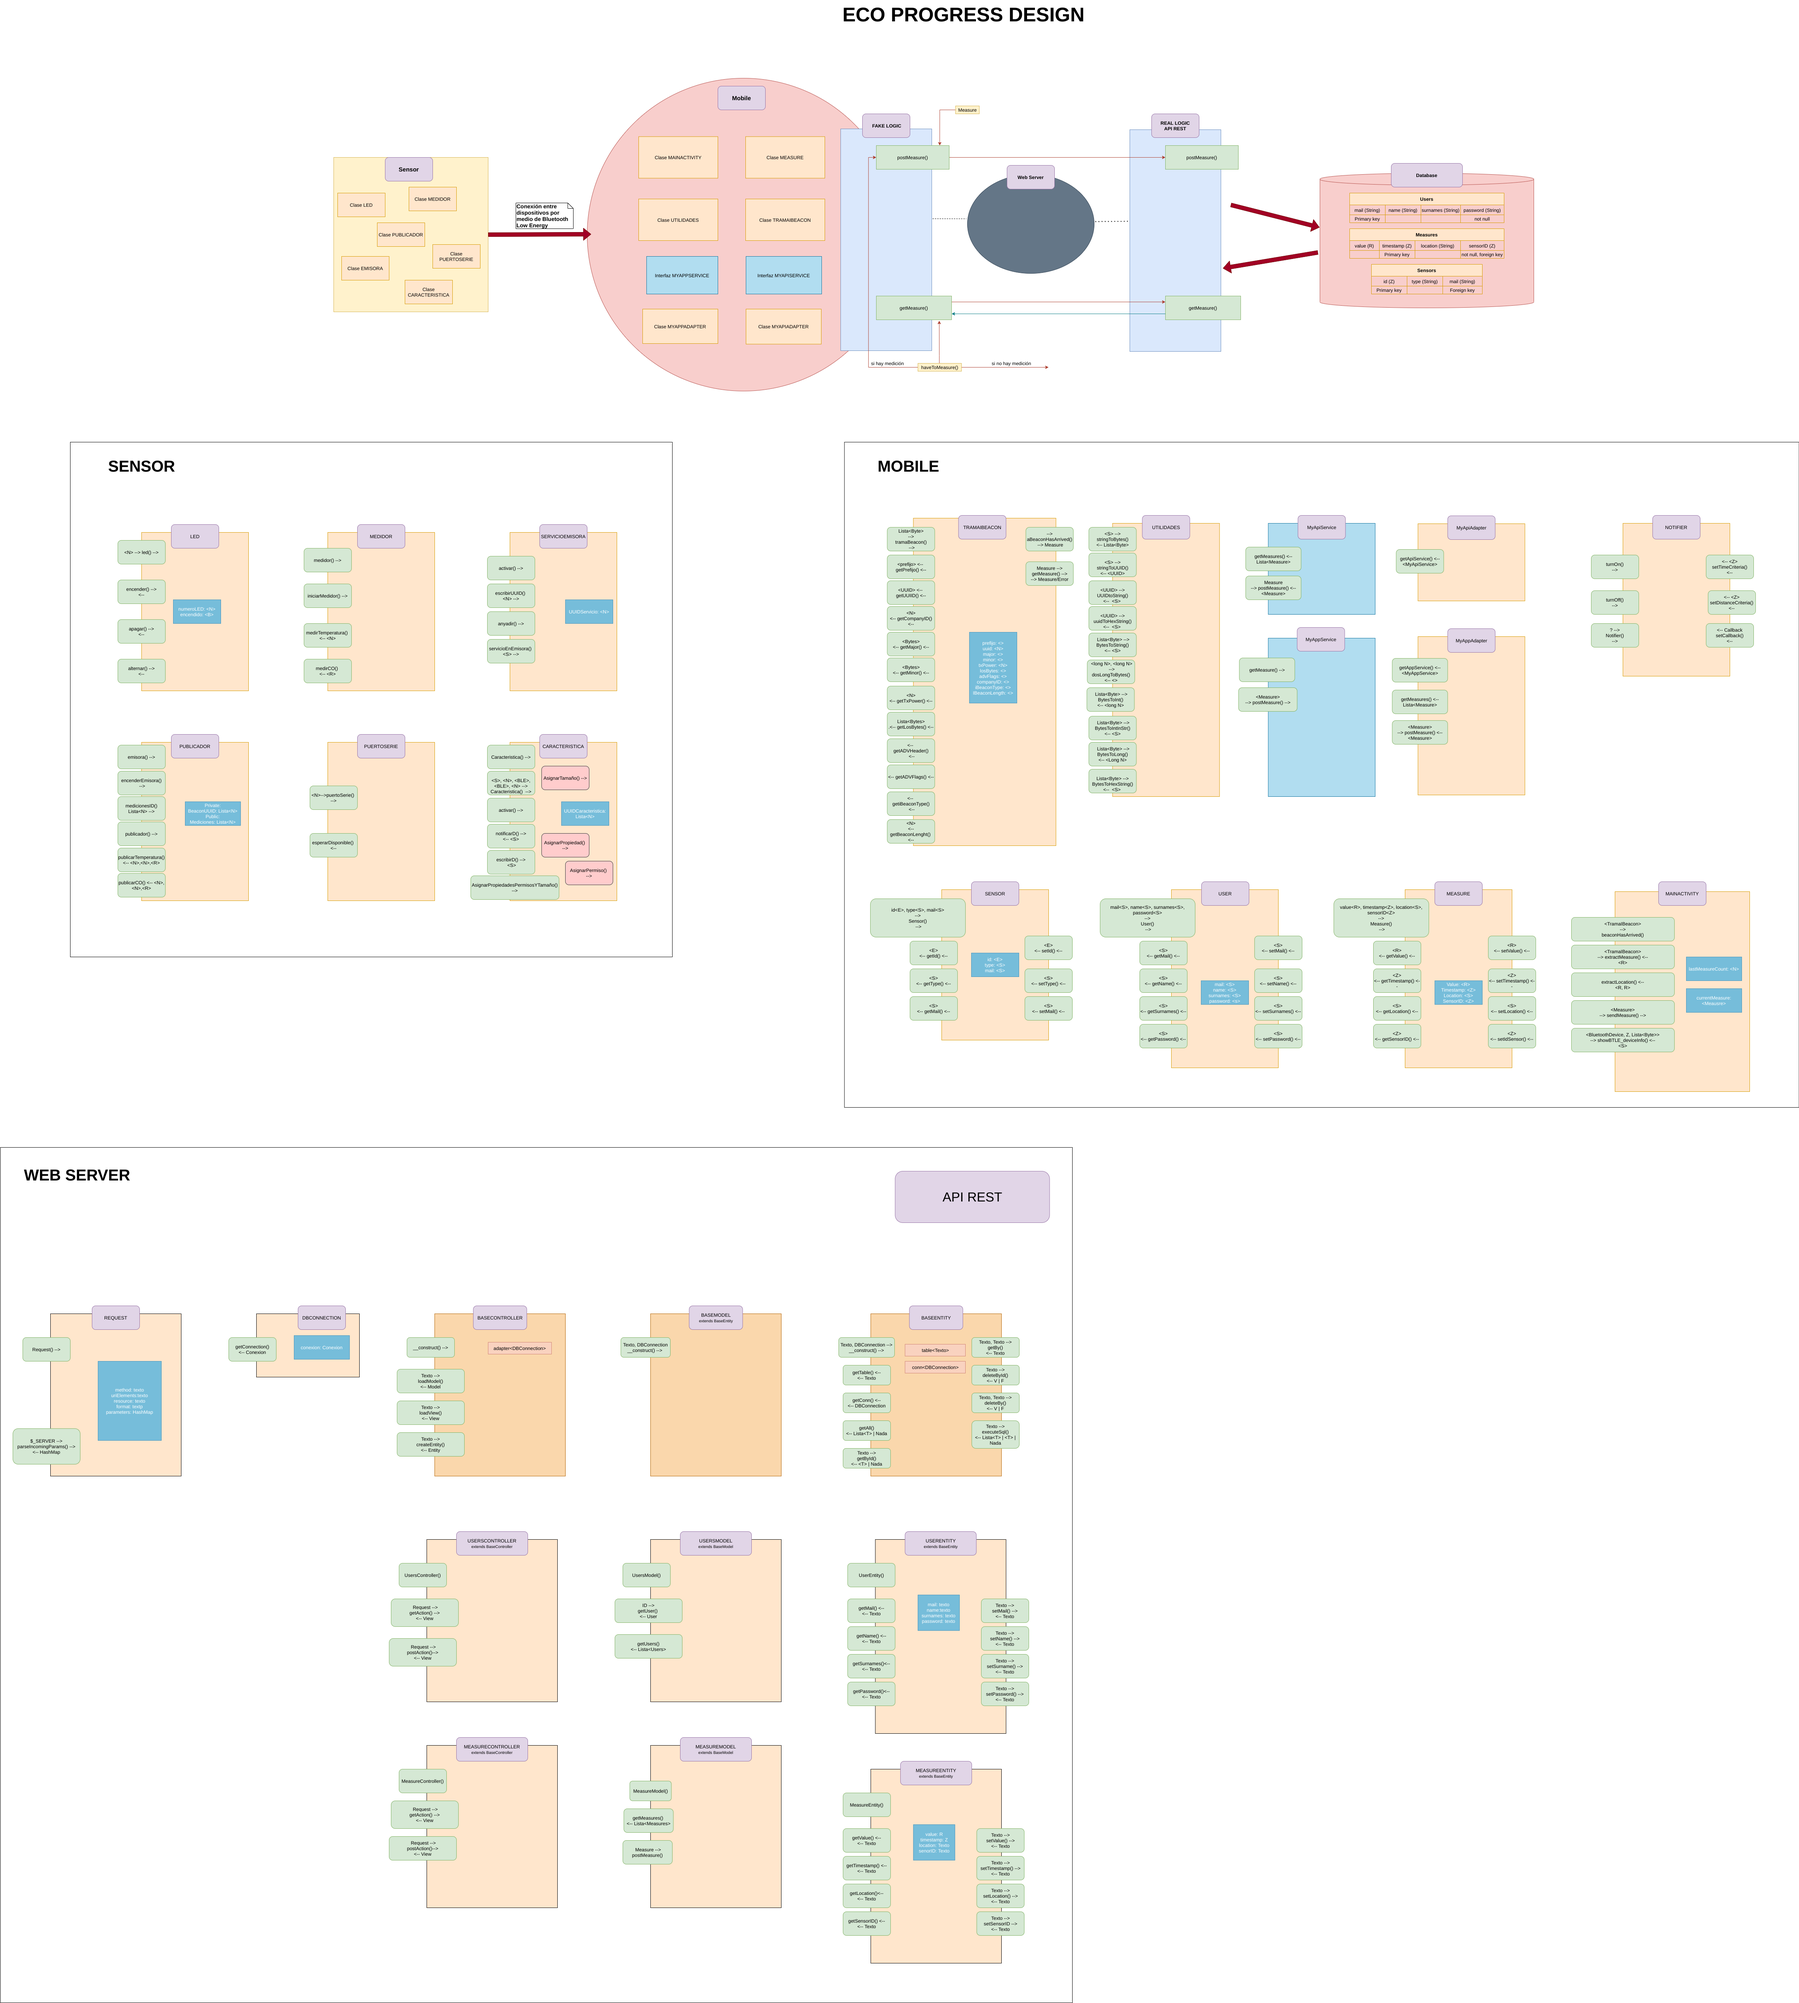
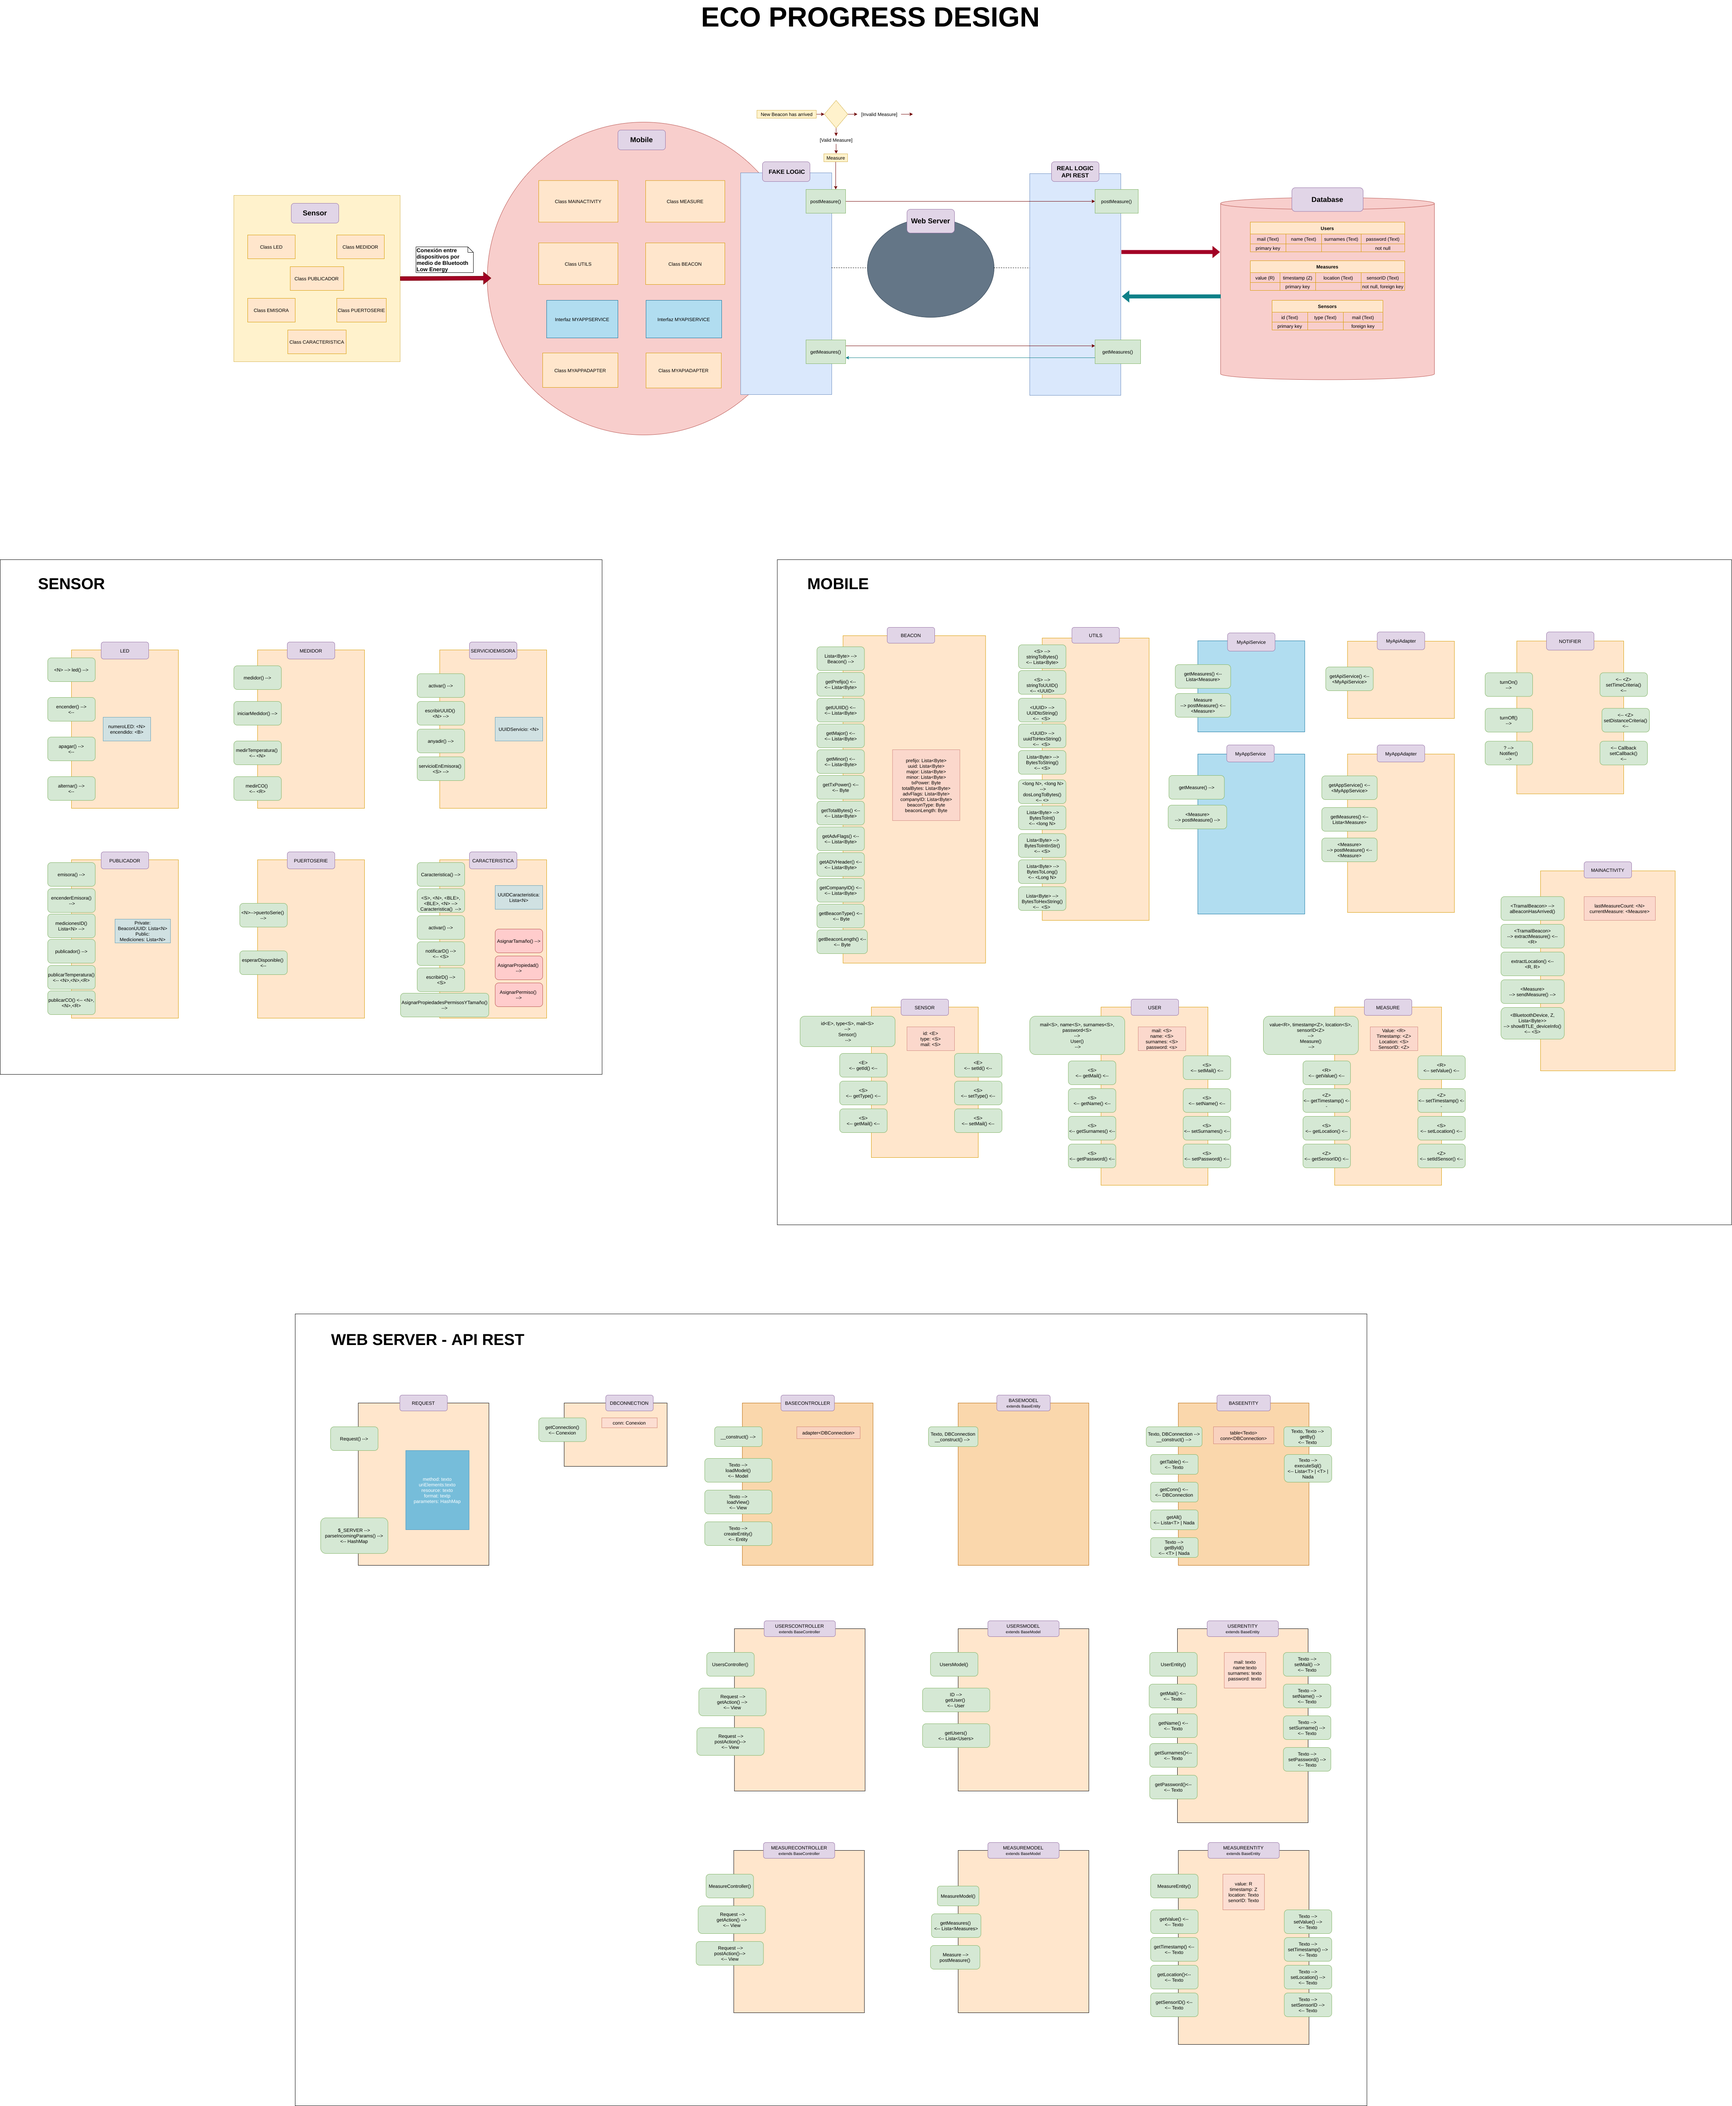
Design & DB --> General design and sql file updated

diff --git a/Project/Mobile/app/src/main/java/es/upv/daghdha/ecoprogress_app/MainActivity.java b/Project/Mobile/app/src/main/java/es/upv/daghdha/ecoprogress_app/MainActivity.java
@@ -24,7 +24,7 @@ import java.util.UUID;
 
 import es.upv.daghdha.ecoprogress_app.io.AppAdapter;
 import es.upv.daghdha.ecoprogress_app.model.Measure;
-import es.upv.daghdha.ecoprogress_app.model.TramaBeacon;
+import es.upv.daghdha.ecoprogress_app.model.Beacon;
 
 // -----------------------------------------------------------------------------------
 // @author: EcoProgress Team 04
@@ -38,7 +38,7 @@ public class MainActivity extends AppCompatActivity {
     private double TEST_VALUE = 3.1415;
     private String MY_STR_DEVICE_UUID = "ECO-PROGRESS-DEV";
     private int MY_API_VERSION = android.os.Build.VERSION.SDK_INT;
-    private String USER_MAIL = "daghdha@developer.com";
+    private String USER_MAIL = "daghdha@developer.com"; // set your mail for testing
     private String SENSOR_ID = "2"; // Maria(1), Adrian(2), Marta(3), Migui(4), Marcelo(5)
 
     // --------------------------------------------------------------
@@ -118,10 +118,10 @@ public class MainActivity extends AppCompatActivity {
     } // ()
 
     // --------------------------------------------------------------
-    //  TramaBeacon -->
+    //  Beacon -->
     //                  aBeaconHasArrived() -->
     // --------------------------------------------------------------
-    private void aBeaconHasArrived(final TramaBeacon b) {
+    private void aBeaconHasArrived(final Beacon b) {
         // Comprobar si no es un beacon repetido
         String[] intValuesInStrOfMajor = Utils.bytesToIntInStr(b.getMajor()).split(":");
         int typeOfMeasure = Integer.parseInt(intValuesInStrOfMajor[0], 10);
@@ -145,11 +145,11 @@ public class MainActivity extends AppCompatActivity {
     }
 
     // --------------------------------------------------------------
-    //  TramaBeacon -->
+    //  Beacon -->
     //                  extractMeasure() -->
     //                                             <-- R | -1
     // --------------------------------------------------------------
-    private void extractMeasure(final TramaBeacon b) {
+    private void extractMeasure(final Beacon b) {
         double CO = Utils.bytesToInt(b.getMinor()); // ppb
         double formattedCO;
         Log.d(ETIQUETA_LOG, "CO_value in ppb-------> " + CO);
@@ -236,15 +236,15 @@ public class MainActivity extends AppCompatActivity {
         Log.d(ETIQUETA_LOG, " bytes = " + new String(bytes));
         Log.d(ETIQUETA_LOG, " bytes (" + bytes.length + ") = " + Utils.bytesToHexString(bytes));
 
-        TramaBeacon tib = new TramaBeacon(bytes);
+        Beacon tib = new Beacon(bytes);
 
         Log.d(ETIQUETA_LOG, " ----------------------------------------------------");
         Log.d(ETIQUETA_LOG, " prefijo  = " + Utils.bytesToHexString(tib.getPrefix()));
         Log.d(ETIQUETA_LOG, " advFlags = " + Utils.bytesToHexString(tib.getAdvFlags()));
         Log.d(ETIQUETA_LOG, " advHeader = " + Utils.bytesToHexString(tib.getAdvHeader()));
         Log.d(ETIQUETA_LOG, " companyID = " + Utils.bytesToHexString(tib.getCompanyID()));
-        Log.d(ETIQUETA_LOG, " iBeacon type = " + Integer.toHexString(tib.getiBeaconType()));
-        Log.d(ETIQUETA_LOG, " iBeacon length 0x = " + Integer.toHexString(tib.getiBeaconLength()) + " ( " + tib.getiBeaconLength() + " ) ");
+        Log.d(ETIQUETA_LOG, " iBeacon type = " + Integer.toHexString(tib.getBeaconType()));
+        Log.d(ETIQUETA_LOG, " iBeacon length 0x = " + Integer.toHexString(tib.getBeaconLength()) + " ( " + tib.getBeaconLength() + " ) ");
         Log.d(ETIQUETA_LOG, " uuid  = " + Utils.bytesToHexString(tib.getUUID()));
         Log.d(ETIQUETA_LOG, " uuid  = " + Utils.bytesToString(tib.getUUID()));
         Log.d(ETIQUETA_LOG, " major  = " + Utils.bytesToHexString(tib.getMajor()) + "( " + Utils.bytesToIntInStr(tib.getMajor()) + " ) ");
@@ -272,7 +272,7 @@ public class MainActivity extends AppCompatActivity {
                 super.onScanResult(ScanSettings.SCAN_MODE_BALANCED, result); // Escaneo de ciclo más alto ya que la app se ejecuta en segundo plano (ahorro de energía)
                 // Dispostivo encontrado
                 byte[] data = result.getScanRecord().getBytes();
-                TramaBeacon tib = new TramaBeacon(data);
+                Beacon tib = new Beacon(data);
                 String strUUIDEncontrado = Utils.bytesToString(tib.getUUID());
                 Log.d(ETIQUETA_LOG, "API >= 21 - UUID dispositivo encontrado!!!!: " + tib.getUUID().toString());
                 if (strUUIDEncontrado.compareTo(Utils.uuidToString(uuidTarget)) == 0) {
@@ -309,7 +309,7 @@ public class MainActivity extends AppCompatActivity {
             @Override
             public void onLeScan(BluetoothDevice bluetoothDevice, int rssi, byte[] bytes) {
                 // Dispostivo encontrado
-                TramaBeacon b = new TramaBeacon(bytes);
+                Beacon b = new Beacon(bytes);
                 String strUUIDFound = Utils.bytesToString(b.getUUID());
                 Log.d(ETIQUETA_LOG, "API <= 19 - UUID dispositivo encontrado!!!!: " + b.getUUID().toString());
                 if (strUUIDFound.compareTo(Utils.uuidToString(uuidTarget)) == 0) {

diff --git a/Project/Mobile/app/src/main/java/es/upv/daghdha/ecoprogress_app/model/Beacon.java b/Project/Mobile/app/src/main/java/es/upv/daghdha/ecoprogress_app/model/Beacon.java
@@ -5,7 +5,7 @@ import java.util.Arrays;
 // -----------------------------------------------------------------------------------
 // @author: EcoProgress Team 04
 // -----------------------------------------------------------------------------------
-public class TramaBeacon {
+public class Beacon {
     private byte[] prefix = null; // 9 bytes
     private byte[] uuid = null; // 16 bytes
     private byte[] major = null; // 2 bytes
@@ -17,8 +17,8 @@ public class TramaBeacon {
     private byte[] advFlags = null; // 3 bytes
     private byte[] advHeader = null; // 2 bytes
     private byte[] companyID = new byte[2]; // 2 bytes
-    private byte iBeaconType = 0; // 1 byte
-    private byte iBeaconLength = 0; // 1 byte
+    private byte beaconType = 0; // 1 byte
+    private byte beaconLength = 0; // 1 byte
 
     // -------------------------------------------------------------------------------
     // -------------------------------------------------------------------------------
@@ -76,21 +76,21 @@ public class TramaBeacon {
 
     // -------------------------------------------------------------------------------
     // -------------------------------------------------------------------------------
-    public byte getiBeaconType() {
-        return iBeaconType;
+    public byte getBeaconType() {
+        return beaconType;
     }
 
     // -------------------------------------------------------------------------------
     // -------------------------------------------------------------------------------
-    public byte getiBeaconLength() {
-        return iBeaconLength;
+    public byte getBeaconLength() {
+        return beaconLength;
     }
 
     // -------------------------------------------------------------------------------
     // Lista<Byte> -->
     //                  IBeacon() -->
     // -------------------------------------------------------------------------------
-    public TramaBeacon(byte[] bytes) {
+    public Beacon(byte[] bytes) {
         this.totalBytes = bytes;
 
         prefix = Arrays.copyOfRange(totalBytes, 0, 8 + 1); // 9 bytes
@@ -102,8 +102,8 @@ public class TramaBeacon {
         advFlags = Arrays.copyOfRange(prefix, 0, 2 + 1); // 3 bytes
         advHeader = Arrays.copyOfRange(prefix, 3, 4 + 1); // 2 bytes
         companyID = Arrays.copyOfRange(prefix, 5, 6 + 1); // 2 bytes
-        iBeaconType = prefix[7]; // 1 byte
-        iBeaconLength = prefix[8]; // 1 byte
+        beaconType = prefix[7]; // 1 byte
+        beaconLength = prefix[8]; // 1 byte
 
     } // ()
 } // class
